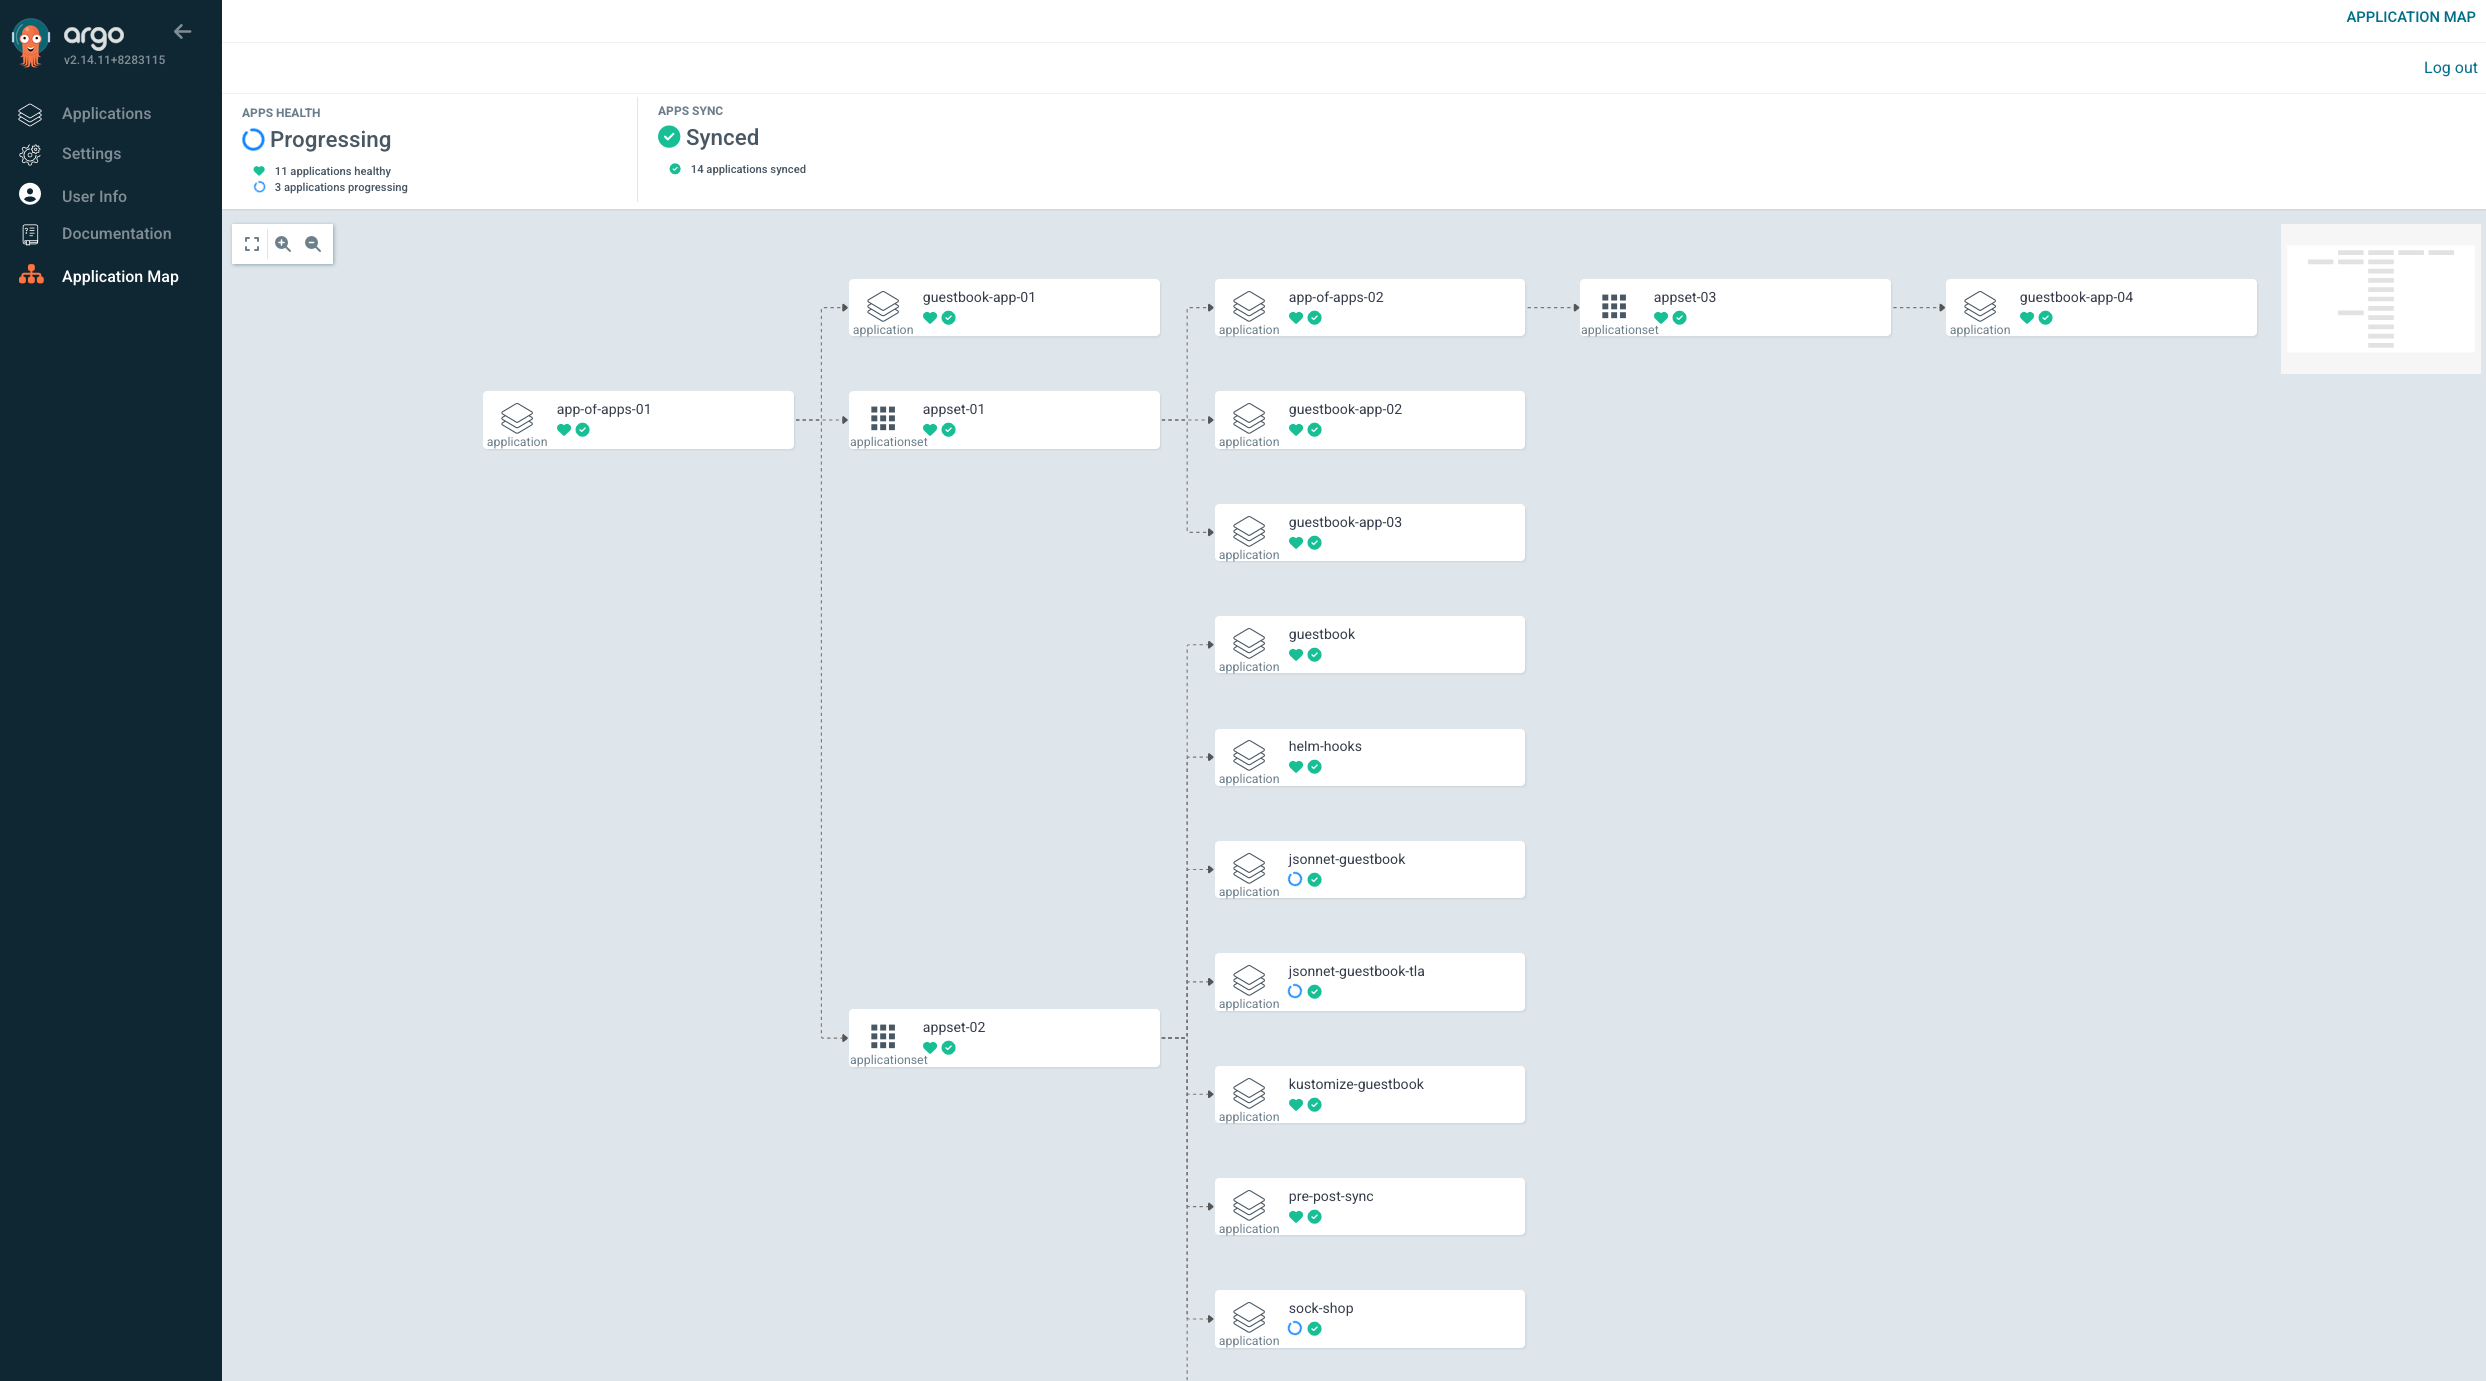
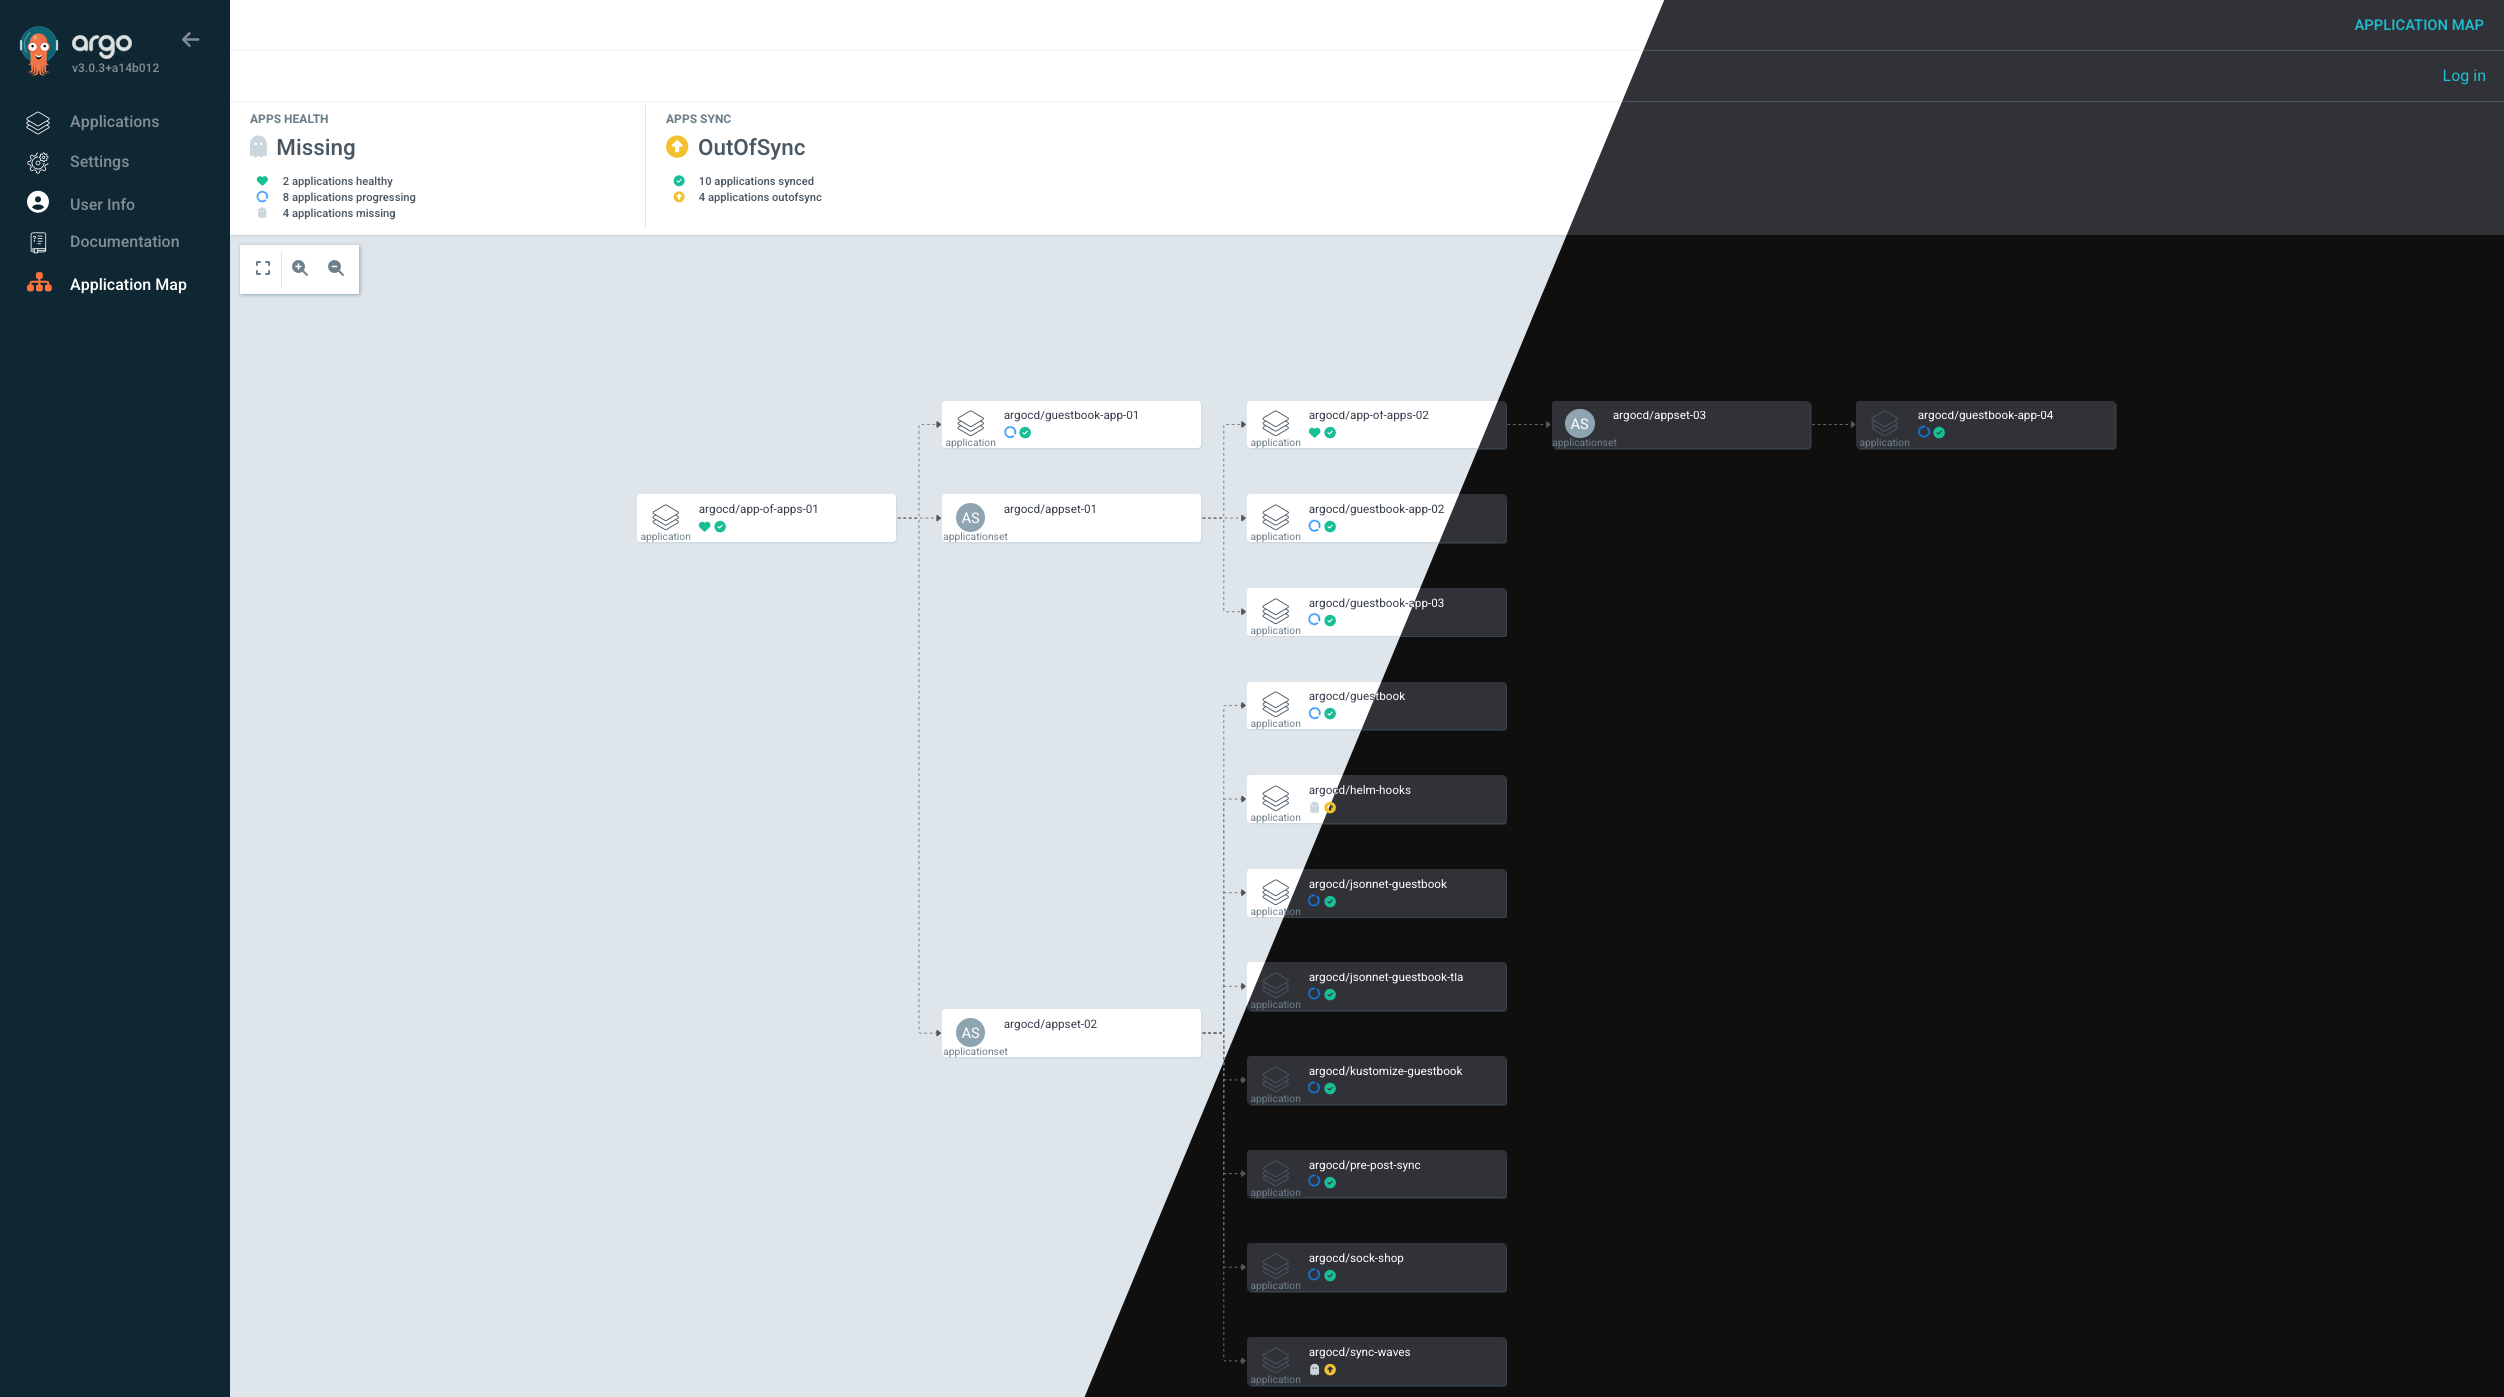
:memo:: Update README roadmap and enhance screenshot
- Updated the roadmap to reflect the MVP status and added completed features for v1.0.
- Adjusted future versions to include dynamic refresh support and other enhancements.
- Updated the screenshot asset to align with recent UI changes.

diff --git a/README.md b/README.md
@@ -86,13 +86,17 @@ spec:
 
 ## Roadmap
 
-### v1.0 - Core Enhancements
+### v1.0 - MVP (2025-05-25)
 
-- [ ] UI/UX Improvements
-  - [ ] Add support for dark mode
-  - [ ] Add support for dynamic refresh of map
+- [x] Main features
+  - [x] Interactive, zoomable map of ArgoCD Applications and ApplicationSets
+  - [x] Visualizes dependencies and detects cycles
+  - [x] Filter by health and sync status
+  - [x] Status summary panel
+  - [x] Click on a node to open the native ArgoCD application page
+  - [x] Fully integrated with ArgoCD UI (supports dark mode)
 
-### v1.1 - Search and Filter
+### v1.1 - Search and Filter (TBD)
 
 - [ ] Advanced Filtering
   - [ ] Add support for filtering applications _(side panel like in the ArgoCD UI)_
@@ -103,9 +107,9 @@ spec:
   - [ ] Add fuzzy search support
   - [ ] Add search suggestions
 
-### Future Considerations
+### v1.2 - Dynamic Refresh (TBD)
 
-- [ ] Application clustering using ArgoCD projects, clusters or labels
+- [ ] Add support for dynamic refresh of map when ArgoCD applications are updated using SSE (Server-Sent Events)
 
 ## Contributing
 
